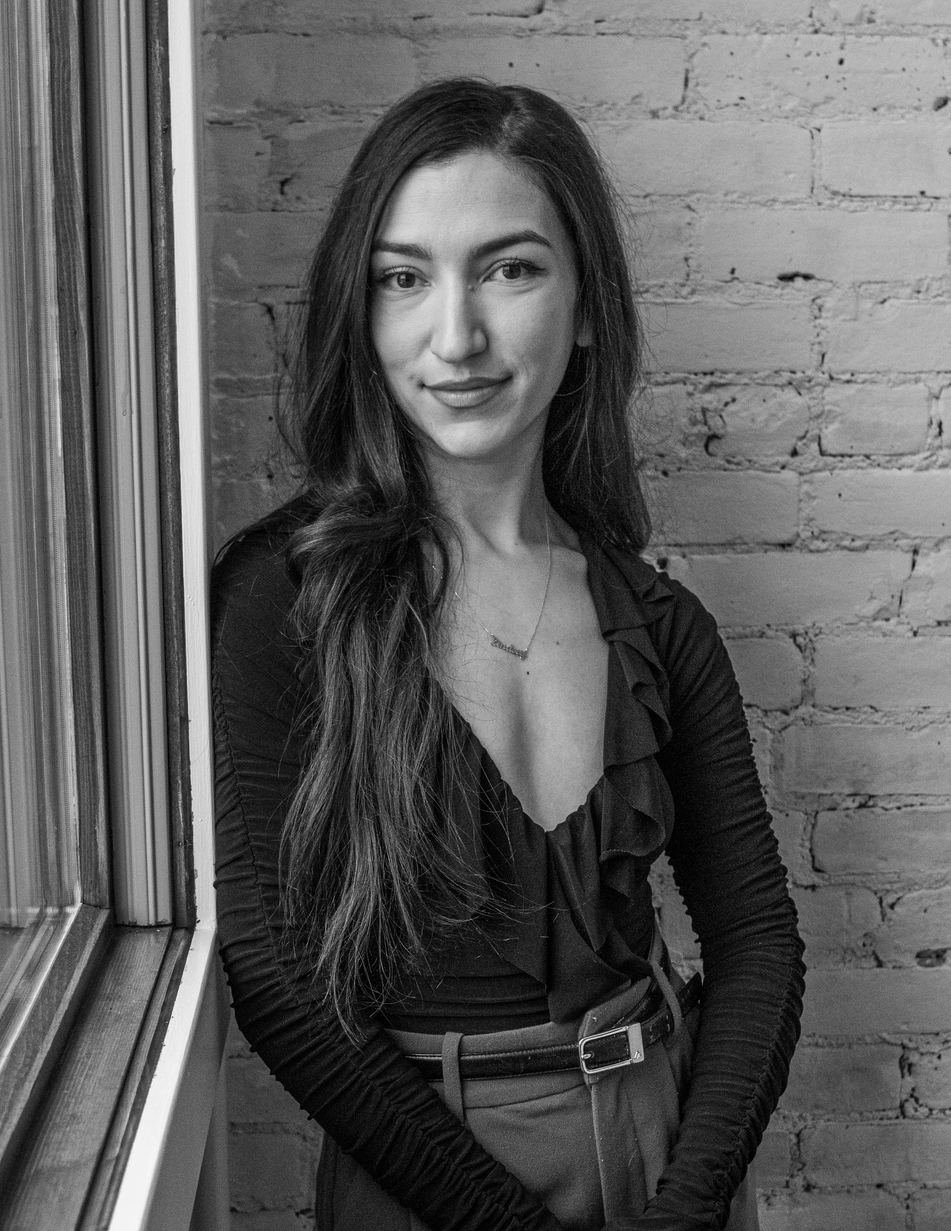
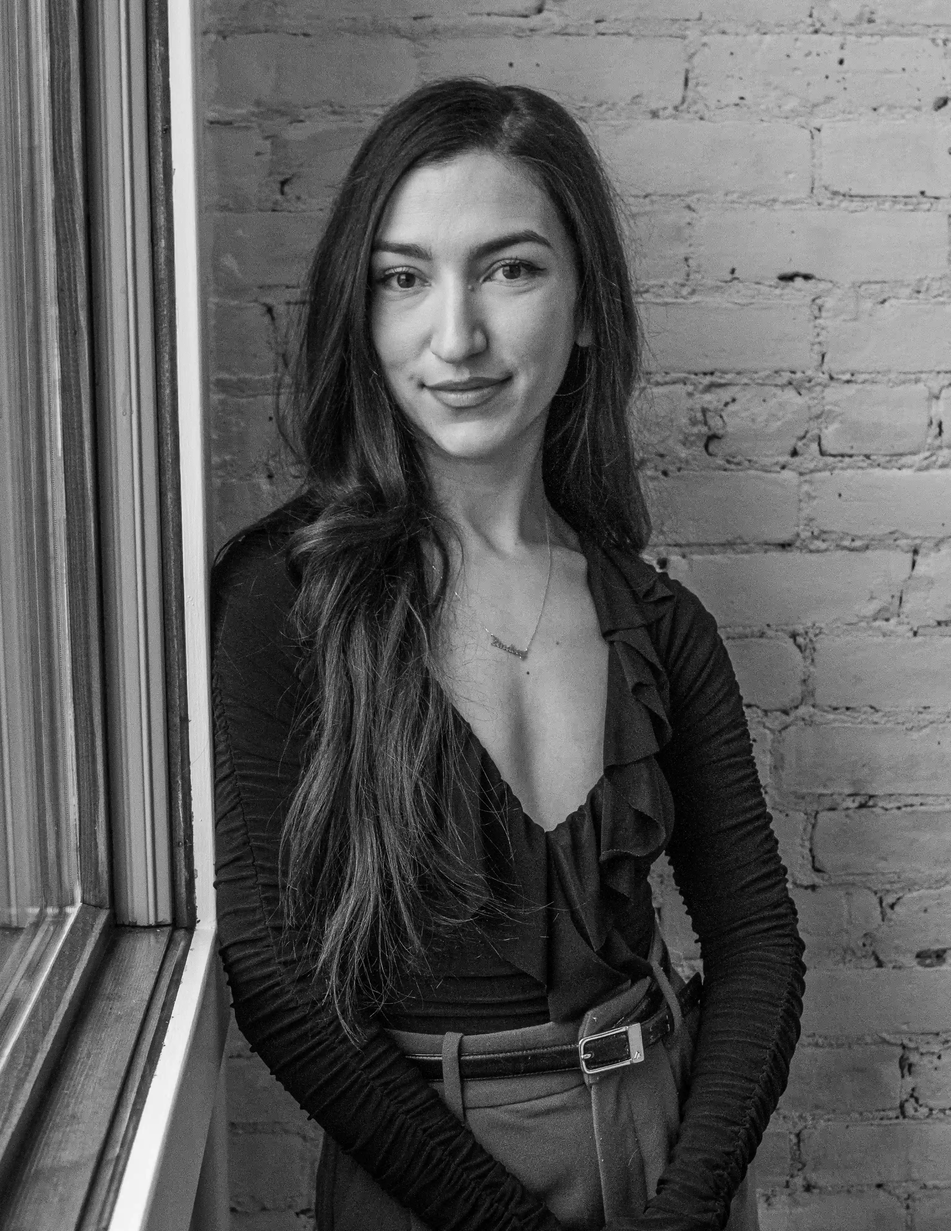
compressed photos

diff --git a/src/pages/About.jsx b/src/pages/About.jsx
@@ -6,7 +6,7 @@ import { useInView } from 'react-intersection-observer';
 gsap.registerPlugin(ScrollTrigger);
 
 const AboutPage = () => {
-  const [imageSrc, setImageSrc] = useState('/images/johnphoto.jpeg');
+  const [imageSrc, setImageSrc] = useState('/images/johnphoto.webp');
   const imageRef = useRef(null);
   const textRef = useRef(null);
 
@@ -25,7 +25,7 @@ const AboutPage = () => {
             opacity: 0,
             duration: 2,
             onComplete: () => {
-              setImageSrc('/images/johnPainting.png');
+              setImageSrc('/images/portrait.webp');
               gsap.to(imageRef.current, { opacity: 1, duration: 1.5 });
             },
           });

diff --git a/src/components/Hero.jsx b/src/components/Hero.jsx
@@ -65,7 +65,7 @@ const Hero = ({ backgroundImage, logoImage, animationDuration = 1 }) => {
       <div className="relative">
         {/* Large Screen Image */}
         <img
-          src="/images/lighthouse2.png"
+          src="/images/lighthouse2.webp"
           alt="background"
           className="w-full h-auto hidden md:block object-cover"
         />

diff --git a/src/lib/data.jsx b/src/lib/data.jsx
@@ -265,9 +265,9 @@ export const bottleList = [
 
 
 export const imageList = [
-    '/images/food/burgerFriesDrink.webp',
+    '/images/food/burgerFriesDrink1.webp',
     '/images/food/Steak.webp',
-    '/images/food/martini.webp',
+    '/images/food/martini1.webp',
 
     '/images/food/steak_2.webp',
     '/images/food/Carrots.webp',

diff --git a/src/pages/Menu.jsx b/src/pages/Menu.jsx
@@ -40,7 +40,7 @@ const Menu = () => {
     <div>
       <div className="relative w-screen h-[600px] md:h-[800px]">
         <img
-          src="/images/food/drinkNFood.webp"
+          src="/images/food/drinkNFood2.webp"
           alt="boat"
           className="w-full h-full object-cover border-2 border-darkNavy"
         />

diff --git a/src/pages/Gallery.jsx b/src/pages/Gallery.jsx
@@ -30,7 +30,7 @@ const Gallery = () => {
               src={src}
               alt={`Gallery item ${index + 1}`}
               className="w-full h-full object-cover rounded-md"
-              loading="lazy"
+              
             />
           </div>
         ))}
